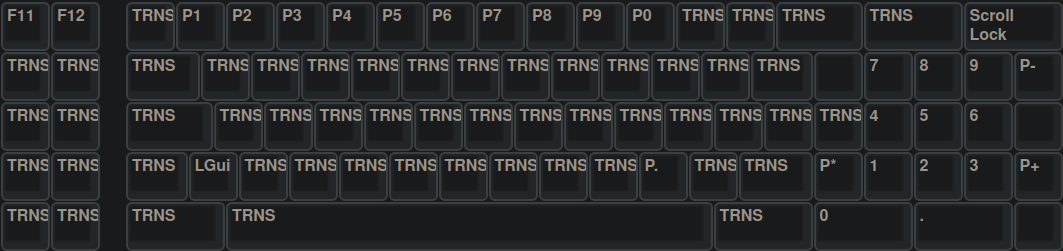
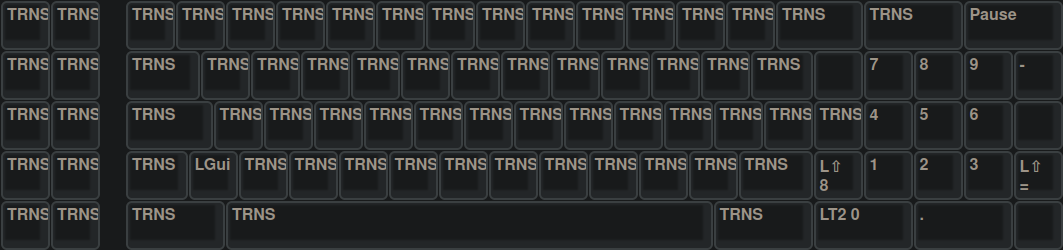
major assignment changes

diff --git a/unimap_plain.c b/unimap_plain.c
@@ -2,7 +2,7 @@
  * path:   /home/klassiker/.local/share/repos/zenith-xt-usb/unimap_plain.c
  * author: klassiker [mrdotx]
  * github: https://github.com/mrdotx/zenith-usb
- * date:   2021-03-02T00:04:50+0100
+ * date:   2021-03-02T11:07:32+0100
  */
 
 #include "unimap_trans.h"
@@ -13,9 +13,14 @@ enum macro_id {
     OPENSSH,
 };
 
-#define AC_T1   ACTION_LAYER_TOGGLE(1)
-#define AC_LT1  ACTION_LAYER_TAP_KEY(1, KC__MUTE)
-#define AC_LT2  ACTION_LAYER_TAP_KEY(2, KC_INS)
+#define AC_LT1  ACTION_LAYER_TOGGLE(1)
+#define AC_LTK1 ACTION_LAYER_TAP_KEY(2, KC_INS)
+#define AC_LTK2 ACTION_LAYER_TAP_KEY(2, KC_0)
+
+#define AC_MON  ACTION_KEY(MOD_LGUI | KC_P)
+#define AC_PLUS ACTION_KEY(MOD_LSFT | KC_EQL)
+#define AC_AST  ACTION_KEY(MOD_LSFT | KC_8)
+
 #define AC_M0   ACTION_MACRO(SETKB)
 #define AC_M1   ACTION_MACRO(AUTOSTART)
 #define AC_M2   ACTION_MACRO(OPENSSH)
@@ -27,32 +32,32 @@ const action_t actionmaps[][UNIMAP_ROWS][UNIMAP_COLS] PROGMEM = {
 #endif
     UNIMAP(
               NO,  NO,  NO,  NO,  NO,  NO,  NO,  NO,  NO,  NO,  NO,  NO,
-    ESC,      F1,  F2,  F3,  F4,  F5,  F6,  F7,  F8,  F9,  F10, NO,  NO,            NO,  LT1, NO,           NO,  NO,  NO,
-    GRV, 1,   2,   3,   4,   5,   6,   7,   8,   9,   0,   MINS,EQL, NO,  BSPC,     NO,  NO,  NO,      T1,  NO,  PSCR,VOLD,
+    ESC,      F1,  F2,  F3,  F4,  F5,  F6,  F7,  F8,  F9,  F10, NO,  NO,            NO,  SLCK,NO,           NO,  NO,  NO,
+    GRV, 1,   2,   3,   4,   5,   6,   7,   8,   9,   0,   MINS,EQL, NO,  BSPC,     NO,  NO,  NO,      LT1, NO,  PSCR,VOLD,
     TAB, Q,   W,   E,   R,   T,   Y,   U,   I,   O,   P,   LBRC,RBRC,     LGUI,     NO,  NO,  NO,      HOME,UP,  PGUP,VOLU,
-    CAPS,A,   S,   D,   F,   G,   H,   J,   K,   L,   SCLN,QUOT,     NO,  ENT,                         LEFT,PAUS,RGHT,NO,
+    CAPS,A,   S,   D,   F,   G,   H,   J,   K,   L,   SCLN,QUOT,     NO,  ENT,                         LEFT,DOWN,RGHT,NO,
     LSFT,NO,  Z,   X,   C,   V,   B,   N,   M,   COMM,DOT, SLSH,     NO,  RSFT,          NO,           END, DOWN,PGDN,NO,
-    LCTL,NO,  LALT,NO,            SPC,           NO,  NO,  NO  ,NO  ,NO,  NO,       NO,  NO,  NO,           LT2, DEL, NO
+    LCTL,NO,  LALT,NO,            SPC,           NO,  NO,  NO  ,NO  ,NO,  NO,       NO,  NO,  NO,           LTK1,DEL, NO
     ),
-    /* function keys and num pad with tab key TAB(LT1) and layer toggle NUM LOCK(T1) */
+    /* num pad with layer toggle NUM LOCK(LT1) */
     UNIMAP(
               NO,  NO,  NO,  NO,  NO,  NO,  NO,  NO,  NO,  NO,  NO,  NO,
-    TRNS,     F11, F12, TRNS,TRNS,TRNS,TRNS,TRNS,TRNS,TRNS,TRNS,NO,  NO,            NO,  SLCK,NO,           NO,  NO,  NO,
-    TRNS,P1,  P2,  P3,  P4,  P5,  P6,  P7,  P8,  P9,  P0,  TRNS,TRNS,NO,  TRNS,     NO,  NO,  NO,      TRNS,NO,  PAST,PMNS,
-    TRNS,TRNS,TRNS,TRNS,TRNS,TRNS,TRNS,TRNS,TRNS,TRNS,TRNS,TRNS,TRNS,     LGUI,     NO,  NO,  NO,      7,   8,   9,   PPLS,
+    TRNS,     TRNS,TRNS,TRNS,TRNS,TRNS,TRNS,TRNS,TRNS,TRNS,TRNS,NO,  NO,            NO,  PAUS,NO,           NO,  NO,  NO,
+    TRNS,TRNS,TRNS,TRNS,TRNS,TRNS,TRNS,TRNS,TRNS,TRNS,TRNS,TRNS,TRNS,NO,  TRNS,     NO,  NO,  NO,      TRNS,NO,  AST, MINS,
+    TRNS,TRNS,TRNS,TRNS,TRNS,TRNS,TRNS,TRNS,TRNS,TRNS,TRNS,TRNS,TRNS,     LGUI,     NO,  NO,  NO,      7,   8,   9,   PLUS,
     TRNS,TRNS,TRNS,TRNS,TRNS,TRNS,TRNS,TRNS,TRNS,TRNS,TRNS,TRNS,     NO,  TRNS,                        4,   5,   6,   NO,
-    TRNS,NO,  TRNS,TRNS,TRNS,TRNS,TRNS,TRNS,TRNS,TRNS,PDOT,TRNS,     NO,  TRNS,          NO,           1,   2,   3,   NO,
-    TRNS,NO,  TRNS,NO,            TRNS,          NO,  NO  ,NO,  NO,  NO,  NO,       NO,  NO,  NO,           0,   DOT, NO
+    TRNS,NO,  TRNS,TRNS,TRNS,TRNS,TRNS,TRNS,TRNS,TRNS,TRNS,TRNS,     NO,  TRNS,          NO,           1,   2,   3,   NO,
+    TRNS,NO,  TRNS,NO,            TRNS,          NO,  NO  ,NO,  NO,  NO,  NO,       NO,  NO,  NO,           LTK2, DOT, NO
     ),
-    /* mouse functions with tap key INS(LT2) */
+    /* function, macros and mouse with tap key INS(LTK1) or 0(LTK2) */
     UNIMAP(
               NO,  NO,  NO,  NO,  NO,  NO,  NO,  NO,  NO,  NO,  NO,  NO,
-    PWR,      M1,  M2,  TRNS,TRNS,TRNS,TRNS,TRNS,TRNS,TRNS,TRNS,NO,  NO,            NO,  SLEP,NO,           NO,  NO,  NO,
-    TRNS,TRNS,TRNS,TRNS,TRNS,TRNS,TRNS,TRNS,TRNS,TRNS,TRNS,TRNS,TRNS,NO,  TRNS,     NO,  NO,  NO,      NLCK,NO,  TRNS,WH_U,
-    RGUI,TRNS,TRNS,TRNS,TRNS,TRNS,TRNS,TRNS,TRNS,TRNS,TRNS,TRNS,TRNS,     BSLS,     NO,  NO,  NO,      BTN2,MS_U,BTN3,WH_D,
-    BTLD,TRNS,TRNS,TRNS,TRNS,TRNS,TRNS,TRNS,TRNS,TRNS,TRNS,TRNS,     NO,  TRNS,                        MS_L,WH_L,MS_R,NO,
-    TRNS,NO,  TRNS,TRNS,TRNS,TRNS,TRNS,TRNS,TRNS,ACL0,ACL1,ACL2,     NO,  TRNS,          NO,           BTN1,MS_D,WH_R,NO,
-    RCTL,NO,  RALT,NO,            TRNS,          NO,  NO  ,NO,  NO,  NO,  NO,       NO,  NO,  NO,           TRNS,M0,  NO
+    NO,       F11, F12, NO,  NO,  NO,  NO,  NO,  NO,  NO,  NO,  NO,  NO,            NO,  SLEP,NO,           NO,  NO,  NO,
+    BTN3,M1,  M2,  NO,  NO,  NO,  MON, CUT, NO,  NO,  NO,  NO,  NO,  NO,  NO,       NO,  NO,  NO,      PWR, NO,  NO,  WH_U,
+    NO,  NO,  NO,  NO,  NO,  NO,  NO,  NO,  NO,  NO,  NO,  NO,  NO,       BSLS,     NO,  NO,  NO,      BTN1,MS_U,BTN2,WH_D,
+    BTLD,NO,  NO,  NO,  NO,  NO,  NO,  NO,  NO,  NO,  NO,  NO,       NO,  NO,                          MS_L,MS_D,MS_R,NO,
+    NO,  NO,  NO,  NO,  NO,  NO,  NO,  NO,  NO,  ACL0,ACL1,ACL2,     NO,  NO,            NO,           WH_L,MS_D,WH_R,NO,
+    NO,  NO,  NO,  NO,            F21,           NO,  NO  ,NO,  NO,  NO,  NO,       NO,  NO,  NO,           TRNS,M0,  NO
     ),
 };
 
